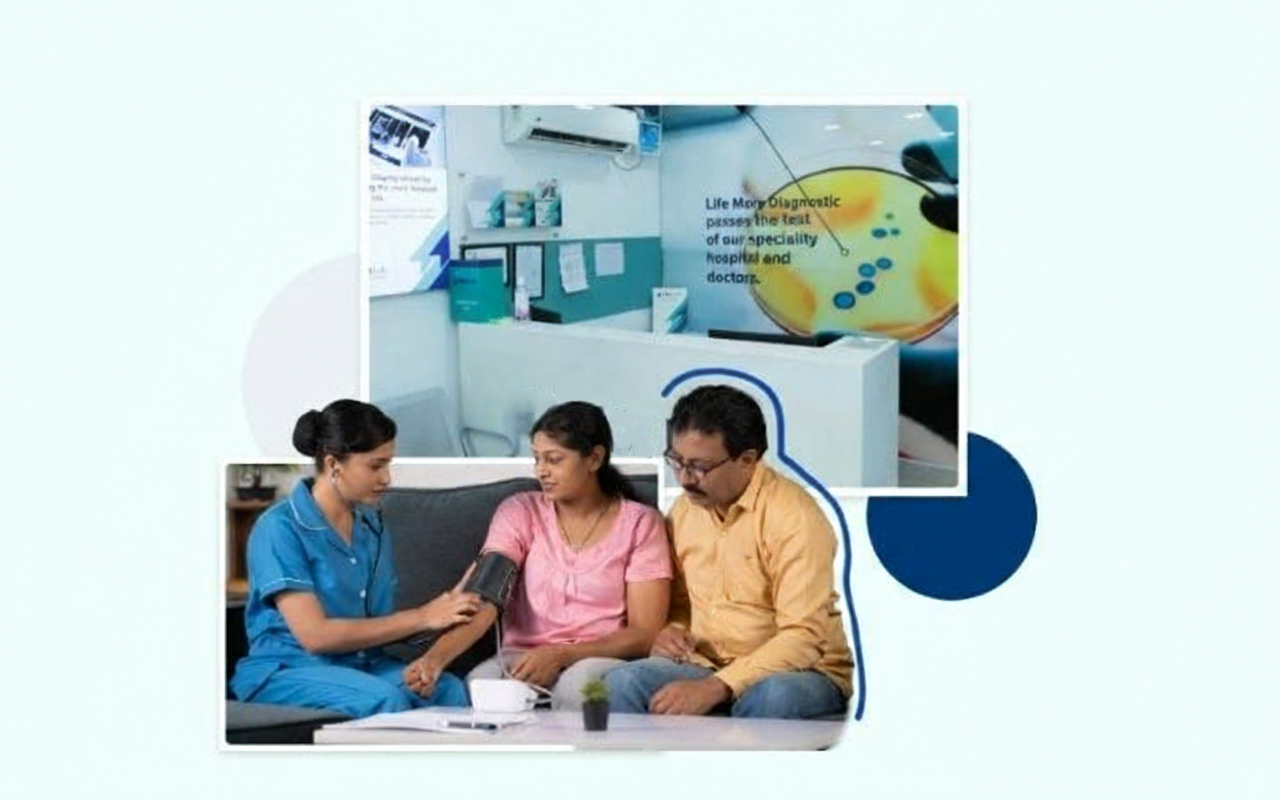
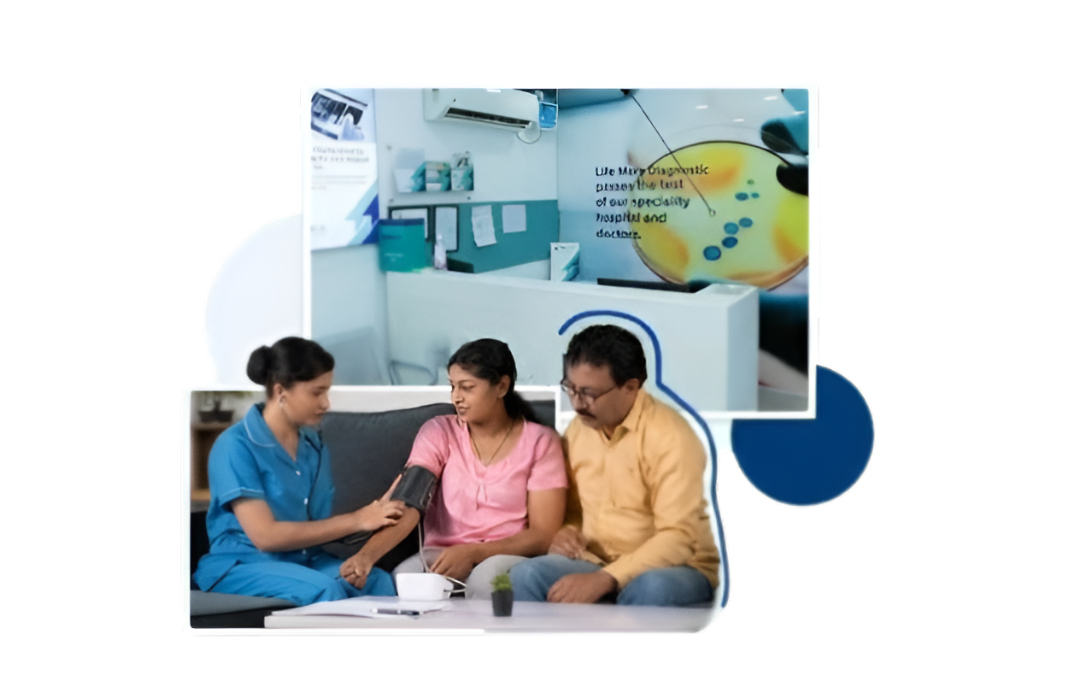
final

diff --git a/index.html b/index.html
@@ -658,6 +658,7 @@ font-weight: bold;
 
 .img-section img {
     width: 100%;
+    object-fit: cover;
 }
 .img-section {
     width: 50%;
@@ -5213,7 +5214,7 @@ document.getElementById('optin-checkbox').addEventListener('click', function(eve
             <div class="row" bis_skin_checked="1">
                <div class=" col-md-6 col-12" bis_skin_checked="1">
                   <div class="img-section" bis_skin_checked="1">
-                    <img src="side-img.png " width="900px" height="400px" alt="">
+                    <img src="side-img.png "  width="900px" height="450px"  alt="">
                       </div>
                </div>
                <div class=" col-md-6 col-12" bis_skin_checked="1">
